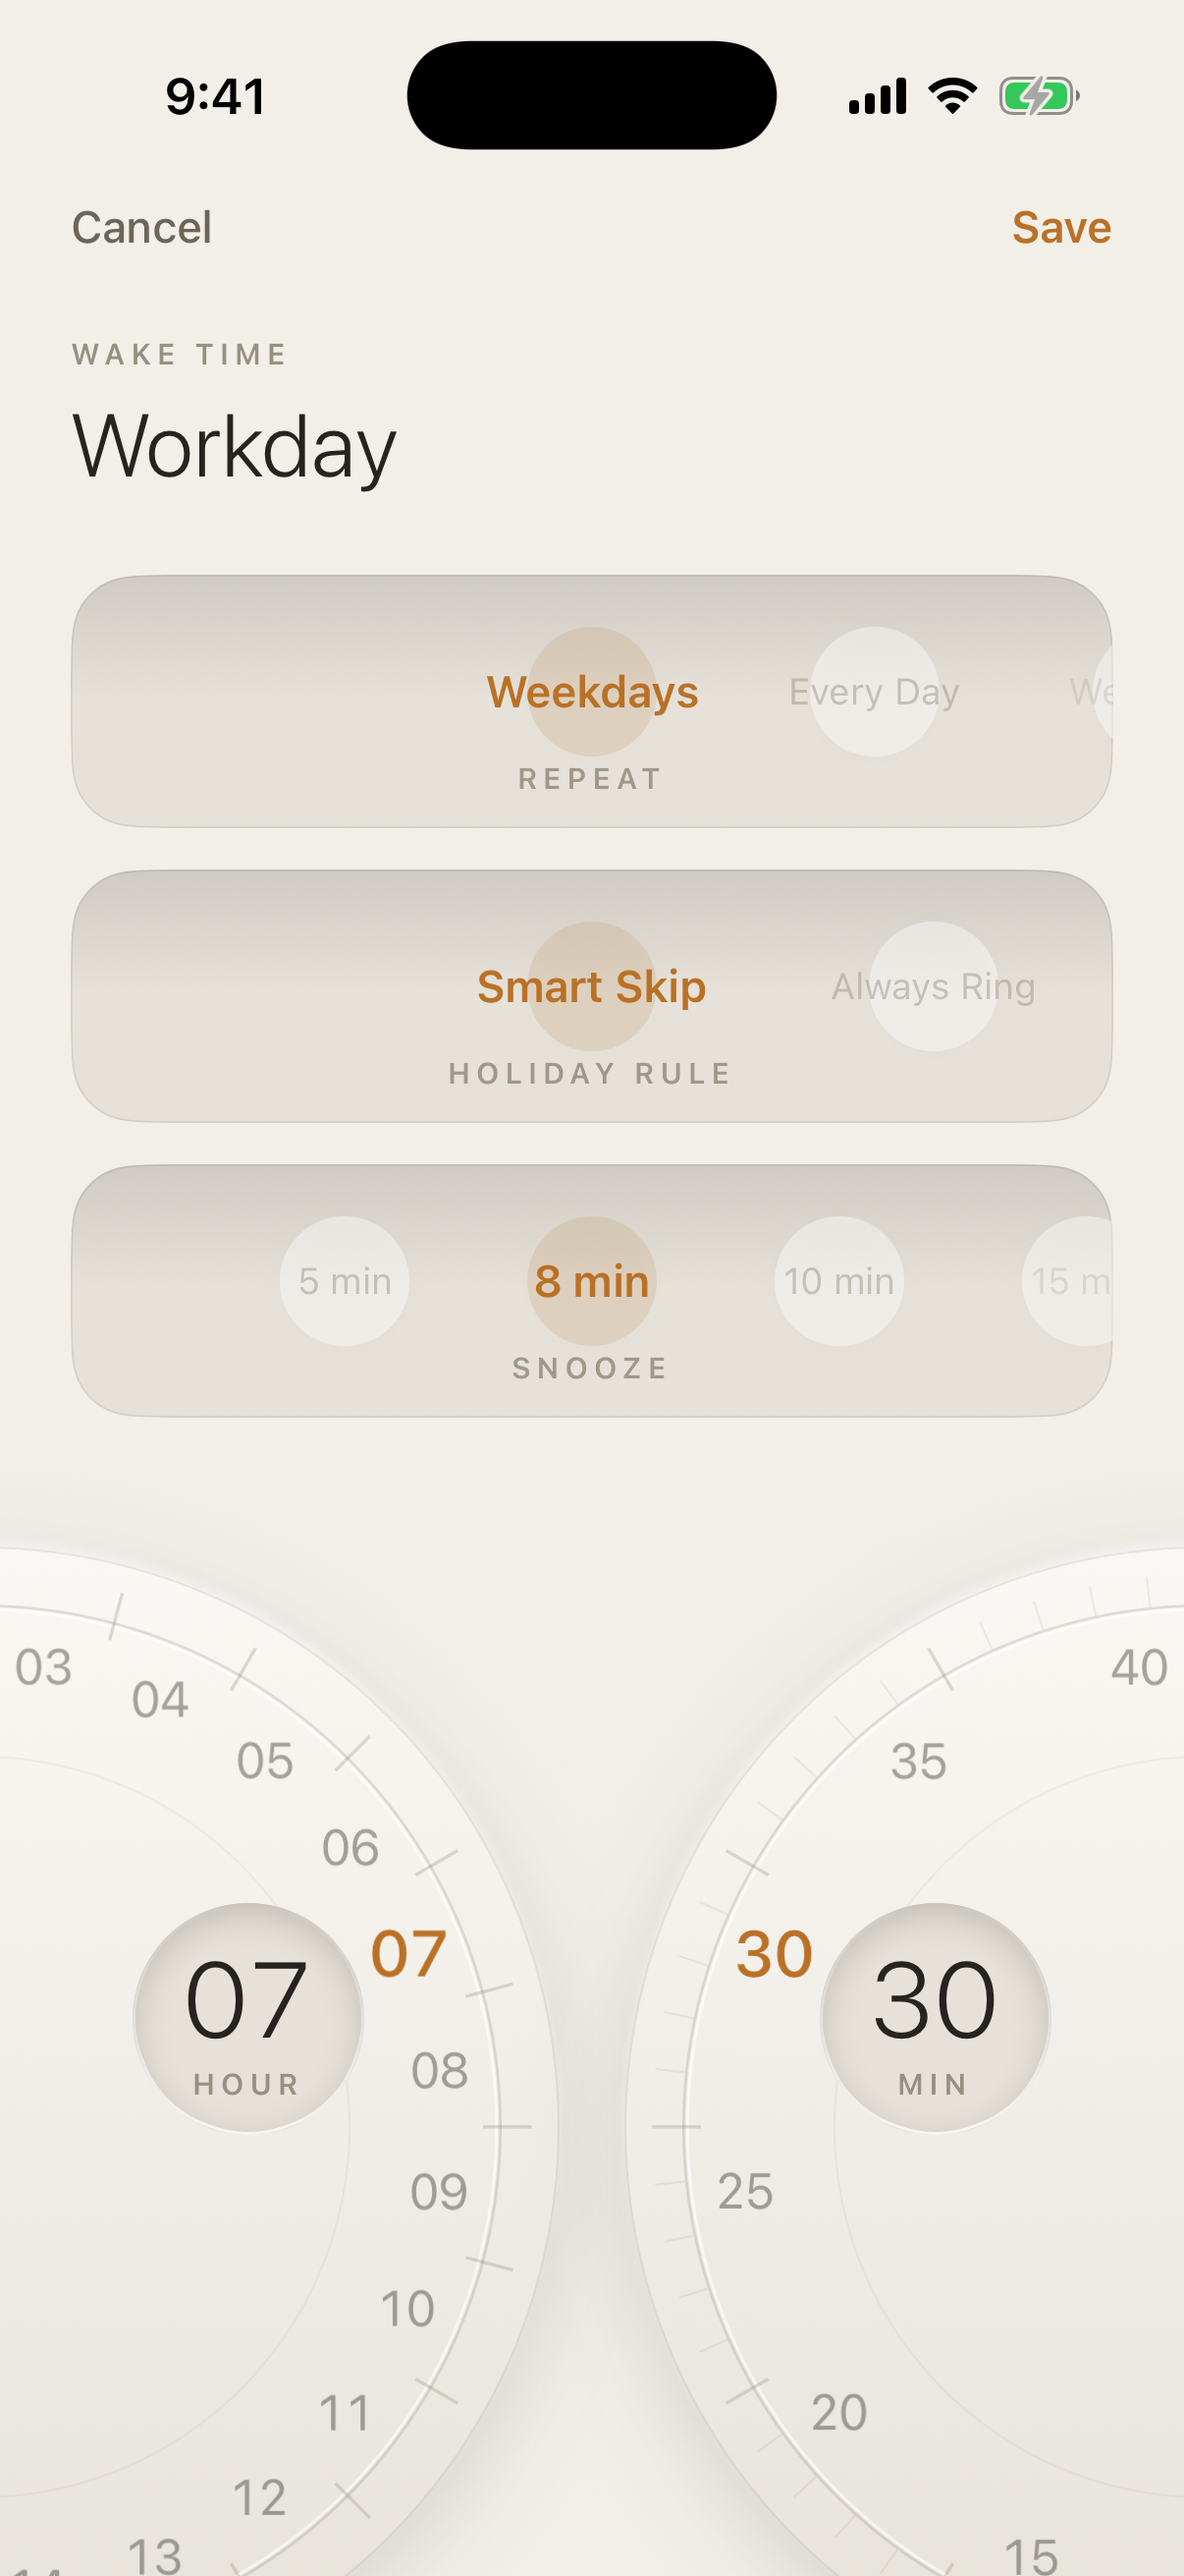
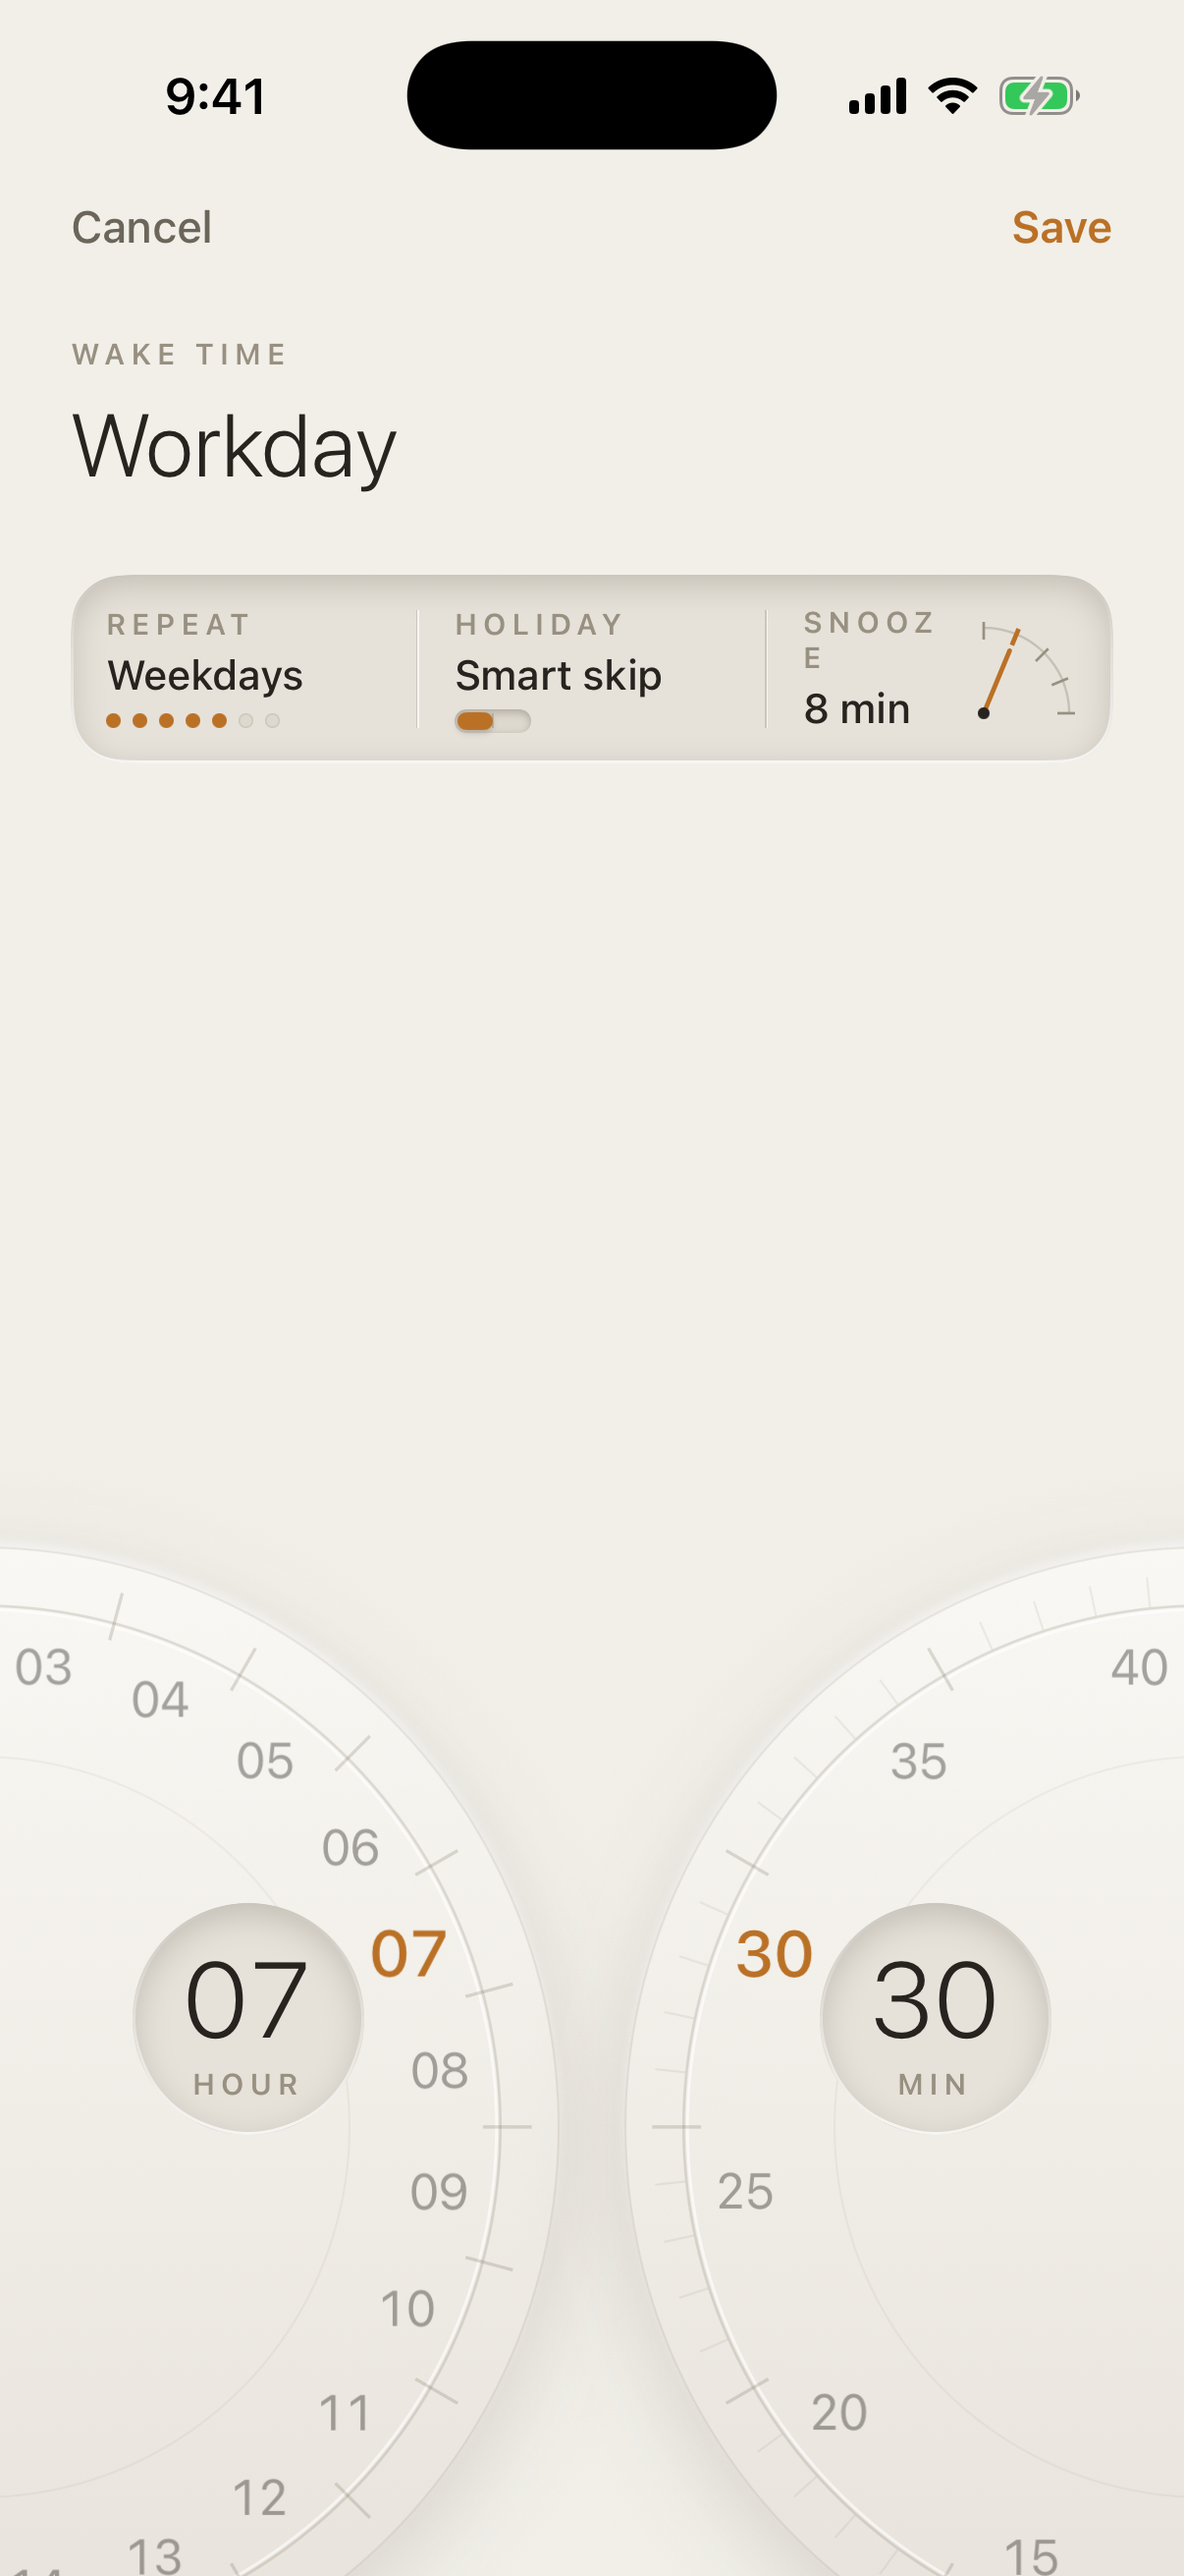
docs: refresh screenshots and describe the wake options instrument row

diff --git a/README.md b/README.md
@@ -12,7 +12,7 @@
 
 ## iOS Simulator Screenshots
 
-Captured by GitHub Actions on `macos-26` against a real build of `VibeAlarm.app`, in light appearance. The same seven screens are also captured on a 375 x 667 phone (`docs/screenshots/small/`).
+Captured by GitHub Actions on `macos-26` against a real build of `VibeAlarm.app`, in light appearance. Every screen is also captured on a 375 x 667 phone (`docs/screenshots/small/`).
 
 <p align="center">
   <img src="docs/screenshots/01-alarms.png" width="19%" alt="Alarms">
@@ -30,7 +30,7 @@ Captured by GitHub Actions on `macos-26` against a real build of `VibeAlarm.app`
 | 1. Alarms | 2. Wake Time |
 | :---: | :---: |
 | <img src="docs/screenshots/01-alarms.png" width="88%" alt="Alarms list"> | <img src="docs/screenshots/02-wake-time-editor.png" width="88%" alt="Wake time editor"> |
-| The home screen is an alarms list. Above it sit three machined quick keys — `Skip`, `+10 min`, `Restore` — that act on tomorrow only. Each row shows the alarm's large time, its repeat summary, today and tomorrow's effective state, and a real toggle. | Two large engraved discs fill the lower half for the hour and the minute, sized for a thumb on each edge. Repeat, Holiday Rule and Snooze are horizontal rotary controls with the caption set into the bottom middle of the control itself, not a title row above it. |
+| The home screen is an alarms list. Above it sit three machined quick keys — `Skip`, `+10 min`, `Restore` — that act on tomorrow only. Each row shows the alarm's large time, its repeat summary, today and tomorrow's effective state, and a real toggle. | Two large engraved discs fill the lower half for the hour and the minute, sized for a thumb on each edge. Repeat, Holiday Rule and Snooze sit in a single 64 pt instrument plate: seven day dots for repeat, an engraved two-position notch for the holiday rule, and a quarter-arc gauge you can drag for snooze. Tapping a cell opens its own sheet. No title rows, no dropdowns. |
 
 | 3. Calendar | 4. Sources |
 | :---: | :---: |
@@ -42,9 +42,10 @@ Captured by GitHub Actions on `macos-26` against a real build of `VibeAlarm.app`
 | <img src="docs/screenshots/05-widgets.png" width="88%" alt="Widgets"> | <img src="docs/screenshots/06-holiday-catalog.png" width="88%" alt="Add Holidays"> |
 | Small and medium Home Screen widgets built from the same shared views, with interactive `Skip`, `+10 min` and `Restore` buttons. A bedtime notification previews tomorrow with the same one-tap actions. | A catalog of 54 national public holiday feeds. Search by country name or code and tap `Add`; the feed becomes an ordinary `.ics` subscription. |
 
-<img src="docs/screenshots/07-parse-notice.png" width="40%" alt="Parse Notice">
-
-Paste a leave notice or an HR email. The on-device parser (or your own API key, if you set one) turns it into dated entries — personal leave, public holiday, makeup workday — before anything is saved.
+| 7. Parse Notice | 2b. Repeat Sheet |
+| :---: | :---: |
+| <img src="docs/screenshots/07-parse-notice.png" width="88%" alt="Parse Notice"> | <img src="docs/screenshots/02b-repeat-sheet.png" width="88%" alt="Repeat sheet"> |
+| Paste a leave notice or an HR email. The on-device parser (or your own API key, if you set one) turns it into dated entries — personal leave, public holiday, makeup workday — before anything is saved. | The repeat sheet: four presets on top and every weekday below with checkmarks, so a custom pattern is one or two taps. |
 
 ---
 
